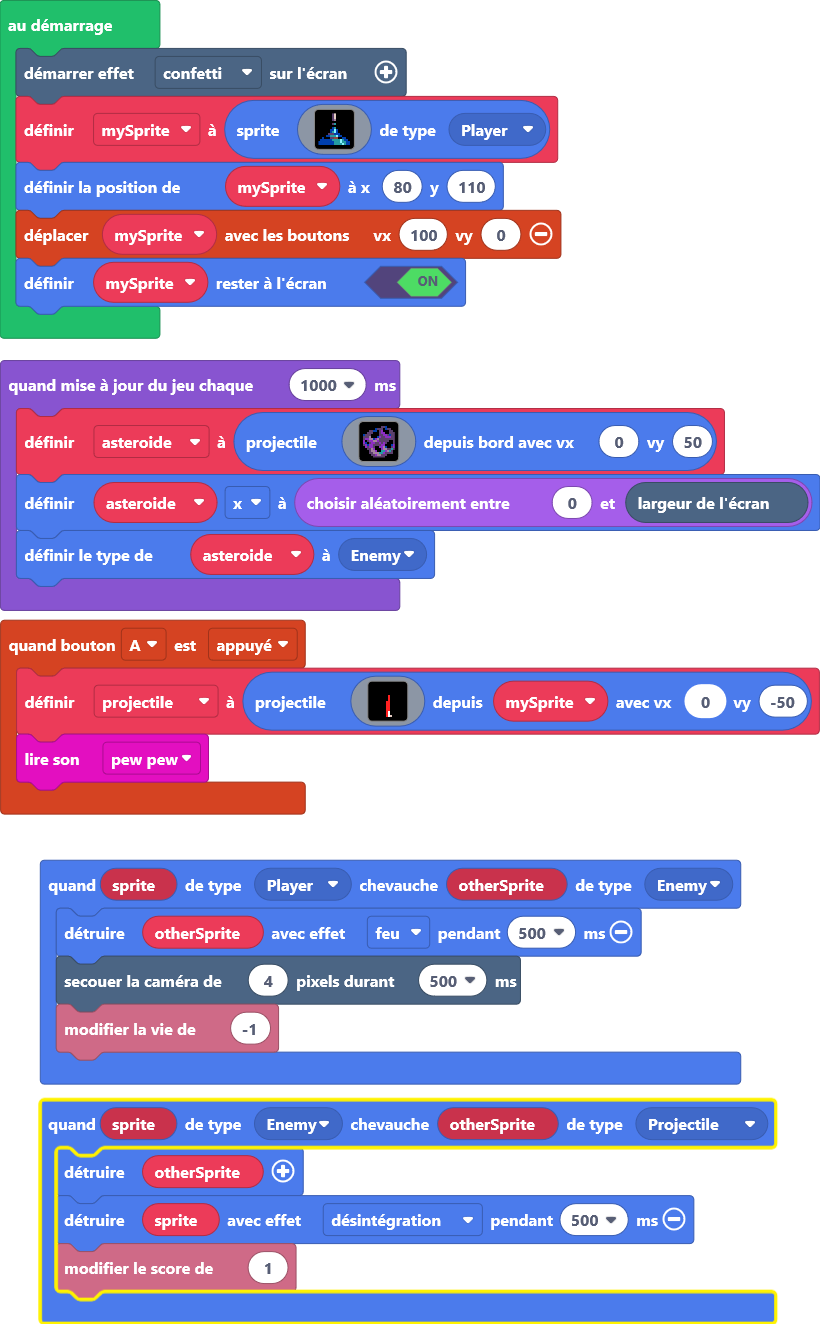
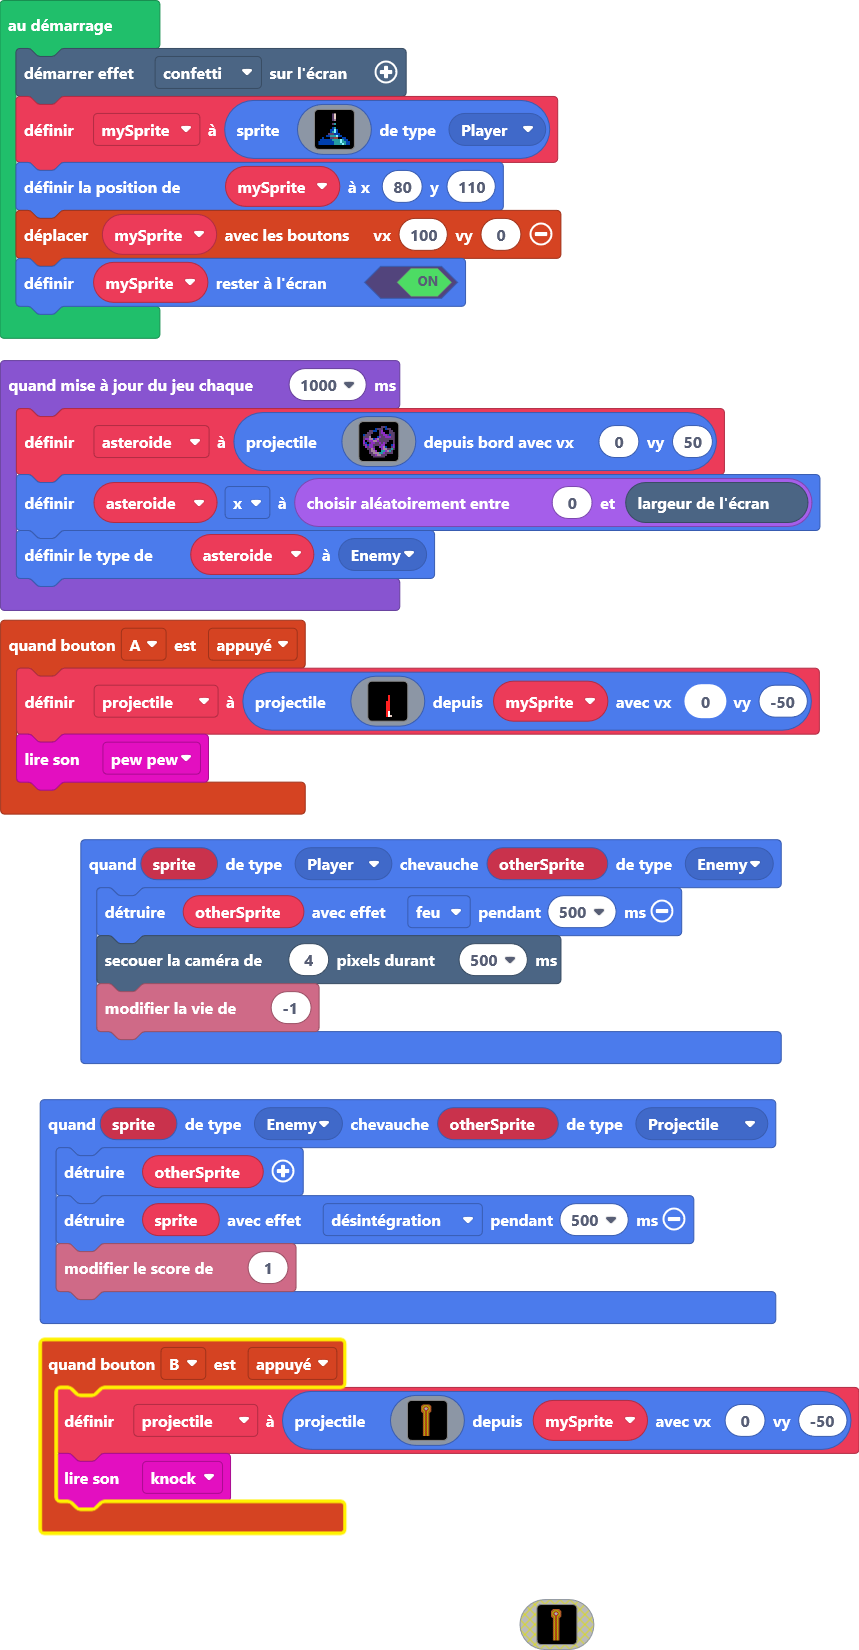
Mise à jour main.blocks, main.ts

diff --git a/main.ts b/main.ts
@@ -1,3 +1,6 @@
+namespace SpriteKind {
+    export const Boulet = SpriteKind.create()
+}
 sprites.onOverlap(SpriteKind.Enemy, SpriteKind.Projectile, function (sprite, otherSprite) {
     otherSprite.destroy()
     sprite.destroy(effects.disintegrate, 500)
@@ -23,6 +26,61 @@ controller.A.onEvent(ControllerButtonEvent.Pressed, function () {
         . . . . . . . 2 1 d . . . . . . 
         `, mySprite, 0, -50)
     music.pewPew.play()
+})
+controller.B.onEvent(ControllerButtonEvent.Pressed, function () {
+    projectile = sprites.createProjectileFromSprite(img`
+        ...4444444444...
+        ..444444444444..
+        .44445555554444.
+        4444555555554444
+        4445552222555444
+        4455522112255544
+        4455221111225544
+        4455211111125544
+        4455221111225544
+        4455522112255544
+        4445552222555444
+        4444555225554444
+        .44445522554444.
+        ..444552255444..
+        ...4455225544...
+        ...4455225544...
+        ...4455225544...
+        ...4455225544...
+        ...4455225544...
+        ...4455225544...
+        ...4455225544...
+        ...4455225544...
+        ...4455225544...
+        ...4455225544...
+        ...4455225544...
+        ...4455225544...
+        ...4455225544...
+        ...4455225544...
+        ...4455225544...
+        ...4455225544...
+        ...4455225544...
+        ...4455225544...
+        ...4455225544...
+        ...4455225544...
+        ...4455225544...
+        ...4455225544...
+        ...4455225544...
+        ...4455225544...
+        ...4455225544...
+        ...4455225544...
+        ...4455225544...
+        ...4455225544...
+        ...4455225544...
+        ...4455225544...
+        ...4455225544...
+        ...4455225544...
+        ...4455225544...
+        ...4455225544...
+        ...4455225544...
+        ...4455225544...
+        `, mySprite, 0, -50)
+    music.knock.play()
 })
 sprites.onOverlap(SpriteKind.Player, SpriteKind.Enemy, function (sprite, otherSprite) {
     otherSprite.destroy(effects.fire, 500)
